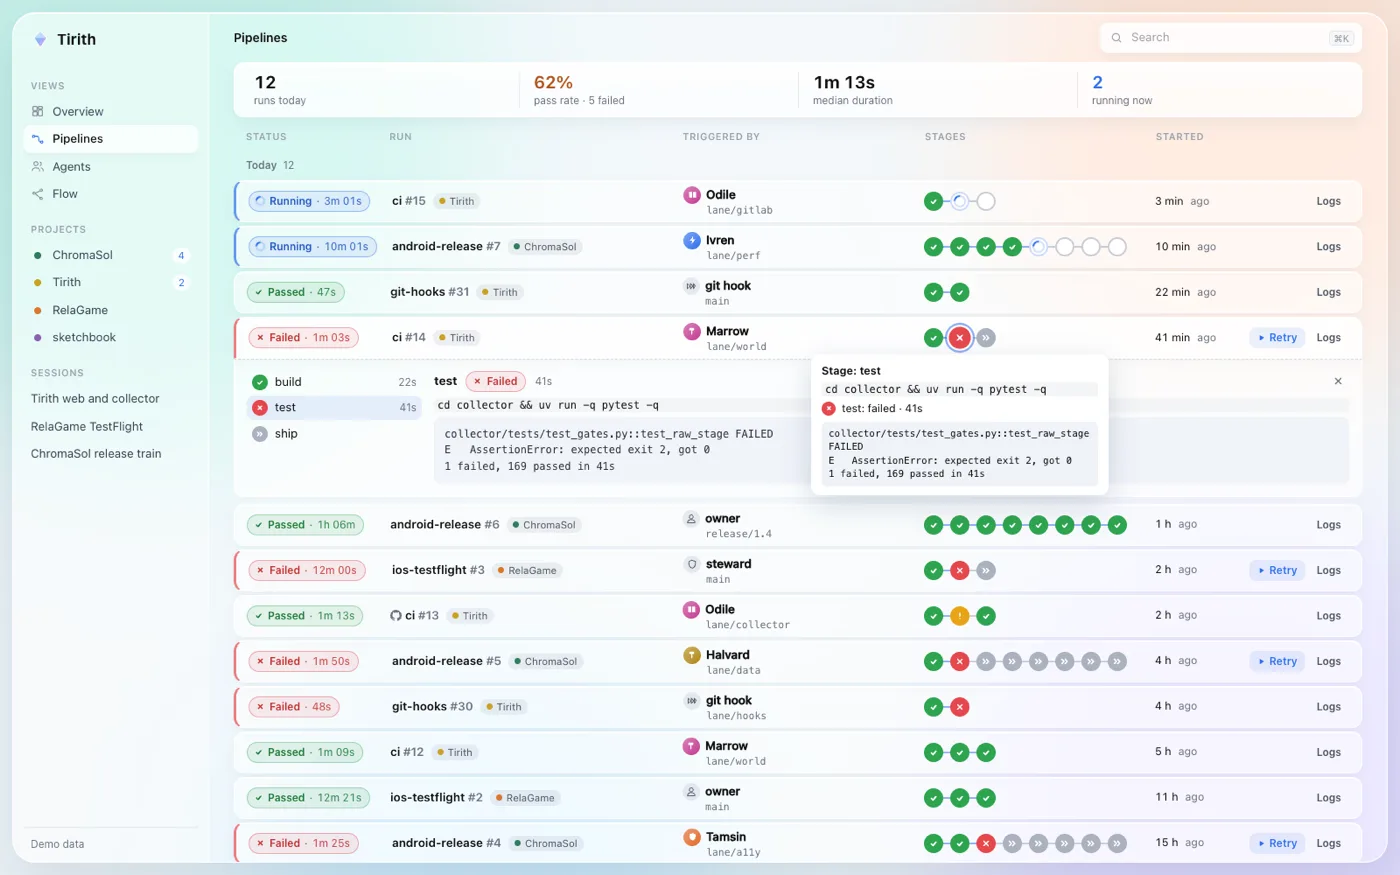
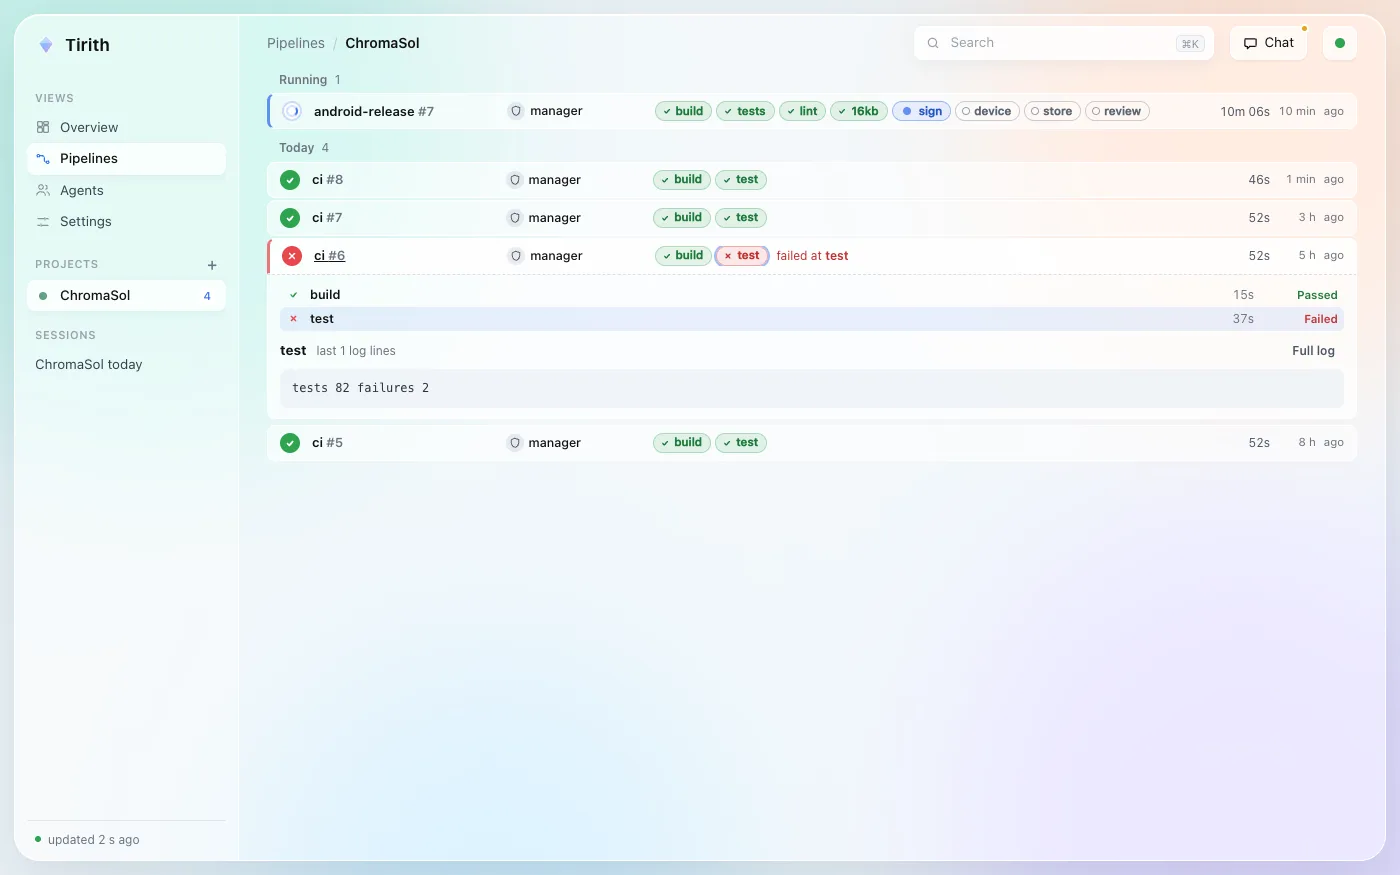
Landing: retake the app screenshots from the current UI on clean demo data, fix the hero caption overlap on phones
The hero shows the plan with real progress and the manager's live work, with no setup notices, no inactive rules and no Flow. The section images are retaken the same way. The hero image sits in a clipping box so the parallax cannot run over its caption. The landing test checks alt texts and image sizes, and the caption overlap.

diff --git a/site/index.html b/site/index.html
@@ -42,7 +42,7 @@
   </div>
   <p class="note">The desktop app is signed and notarized for macOS.</p>
   <figure class="shot">
-    <img src="img/one-manager.webp" width="1400" height="962" alt="The Tirith app: the plan with progress per step on the left, and on the right the manager's chat showing its work live like a CLI: plan steps, file reads, diffs and commands.">
+    <div class="crop"><img src="img/one-manager.webp" width="1400" height="962" alt="The Tirith app: the plan with progress per step on the left, and on the right the manager's chat showing its work live like a CLI: plan steps, file reads, diffs and commands."></div>
     <figcaption>The manager works live in the chat, in the style of a CLI. Demo data.</figcaption>
   </figure>
 </div>
@@ -72,7 +72,7 @@
       </ul>
       <p class="cites">Contracts: CONTRACT-roadmap, CONTRACT-launch</p>
     </div>
-    <figure class="shot"><img loading="lazy" src="img/overview-plan.webp" width="1400" height="875" alt="Overview with the plan of three projects: a progress bar per step, ticked items, and an activity feed on the right."></figure>
+    <figure class="shot"><img loading="lazy" src="img/overview-plan.webp" width="1400" height="875" alt="The Overview of ChromaSol: a plan with a progress bar, ticked steps and an agent working on the open one, and the manager chat with its answer on the right."></figure>
   </div>
 </section>
 
@@ -90,7 +90,7 @@
       <figure class="render"><picture><source type="image/webp" srcset="img/render-gate.webp"><img loading="lazy" src="img/render-gate.png" width="1000" height="625" alt="A stone gate at dusk between two round towers, with bars of amber light across its arch and a blue crystal stopped in front of them: rules that stop an agent."></picture></figure>
       <p class="cites">Contracts: CONTRACT-gates, CONTRACT-launch</p>
     </div>
-    <figure class="shot"><img loading="lazy" src="img/rules.webp" width="842" height="341" alt="A list of rules that blocked agents today, in plain words, such as 'Tests and builds must run through Tirith', with the agent and the time of each refusal."></figure>
+    <figure class="shot"><img loading="lazy" src="img/rules.webp" width="708" height="313" alt="A list of rules that blocked agents today, in plain words, such as 'Tests and builds must run through Tirith', with the agent and the time of each refusal."></figure>
   </div>
 </section>
 
@@ -106,7 +106,7 @@
       </ul>
       <p class="cites">Contract: CONTRACT-inbox</p>
     </div>
-    <figure class="shot"><img loading="lazy" src="img/your-turn.webp" width="1400" height="875" alt="Your turn: three cards with one-click answers such as Rotate now, Done and Publish, above the plan."></figure>
+    <figure class="shot"><img loading="lazy" src="img/your-turn.webp" width="1400" height="875" alt="Your turn: three cards in the manager chat with one-click answers such as Publish, Ship in v1.2 and Done, next to the plan."></figure>
   </div>
 </section>
 
@@ -122,7 +122,7 @@
       </ul>
       <p class="cites">Contracts: CONTRACT-selfcheck, CONTRACT-timeouts</p>
     </div>
-    <figure class="shot"><img loading="lazy" src="img/chat-photos.webp" width="1400" height="875" alt="The manager chat with two attached photos in the message box, next to the Your turn cards."></figure>
+    <figure class="shot"><img loading="lazy" src="img/chat-photos.webp" width="1400" height="875" alt="The manager chat with two attached photos in the message box, next to the cards that wait for the owner."></figure>
   </div>
 </section>
 
@@ -138,8 +138,8 @@
       <p class="cites">Contracts: CONTRACT-agents, CONTRACT-manifest, CONTRACT-models</p>
     </div>
     <div>
-      <figure class="shot"><img loading="lazy" src="img/pipelines-gitlab.webp" width="1400" height="875" alt="Pipelines view: runs with status, stage dots, who triggered them and how long ago, with a failed test stage expanded to show its log."></figure>
-      <figure class="shot" style="margin-top:16px"><img loading="lazy" src="img/demo-agents.webp" width="1400" height="787" alt="Agents as a kanban board with columns Working, Stalled, Done and Failed."></figure>
+      <figure class="shot"><img loading="lazy" src="img/pipelines-gitlab.webp" width="1400" height="875" alt="Pipelines view: a running release and the day's runs with their stages, with a failed test stage expanded to show its log."></figure>
+      <figure class="shot" style="margin-top:16px"><img loading="lazy" src="img/demo-agents.webp" width="1400" height="875" alt="Agents as a kanban board with columns Working, Stalled, Done and Failed."></figure>
     </div>
   </div>
 </section>
@@ -156,7 +156,7 @@
       </ul>
       <p class="cites">Contracts: CONTRACT-projenv, CONTRACT-models</p>
     </div>
-    <figure class="shot"><img loading="lazy" src="img/settings-models.webp" width="1200" height="943" alt="Settings: agent, model and effort for the manager and for workers, a fallback list, and overrides per project and step."></figure>
+    <figure class="shot"><img loading="lazy" src="img/settings-models.webp" width="1400" height="875" alt="Settings: agent, model and effort for the manager and for workers, a fallback list, and overrides per project and step."></figure>
   </div>
 </section>
 

diff --git a/site/style.css b/site/style.css
@@ -71,8 +71,9 @@ h1 { font-size: clamp(2rem, 6vw, 3.6rem); line-height: 1.1; margin: 16px auto 14
 .btn:focus-visible, a:focus-visible { outline: 3px solid var(--accent); outline-offset: 2px; }
 .note { font-size: 0.85rem; color: var(--muted); margin-top: 10px; }
 .shot { border-radius: 16px; border: 1px solid var(--line); box-shadow: var(--shadow); overflow: hidden; background: var(--card); }
-.shot img { width: 100%; }
+.shot img { display: block; width: 100%; height: auto; }
 .hero .shot { margin-top: 34px; }
+.hero .shot .crop { overflow: hidden; }
 figcaption { font-size: 0.88rem; color: var(--muted); padding: 10px 14px; text-align: left; }
 figure { margin: 0; }
 
